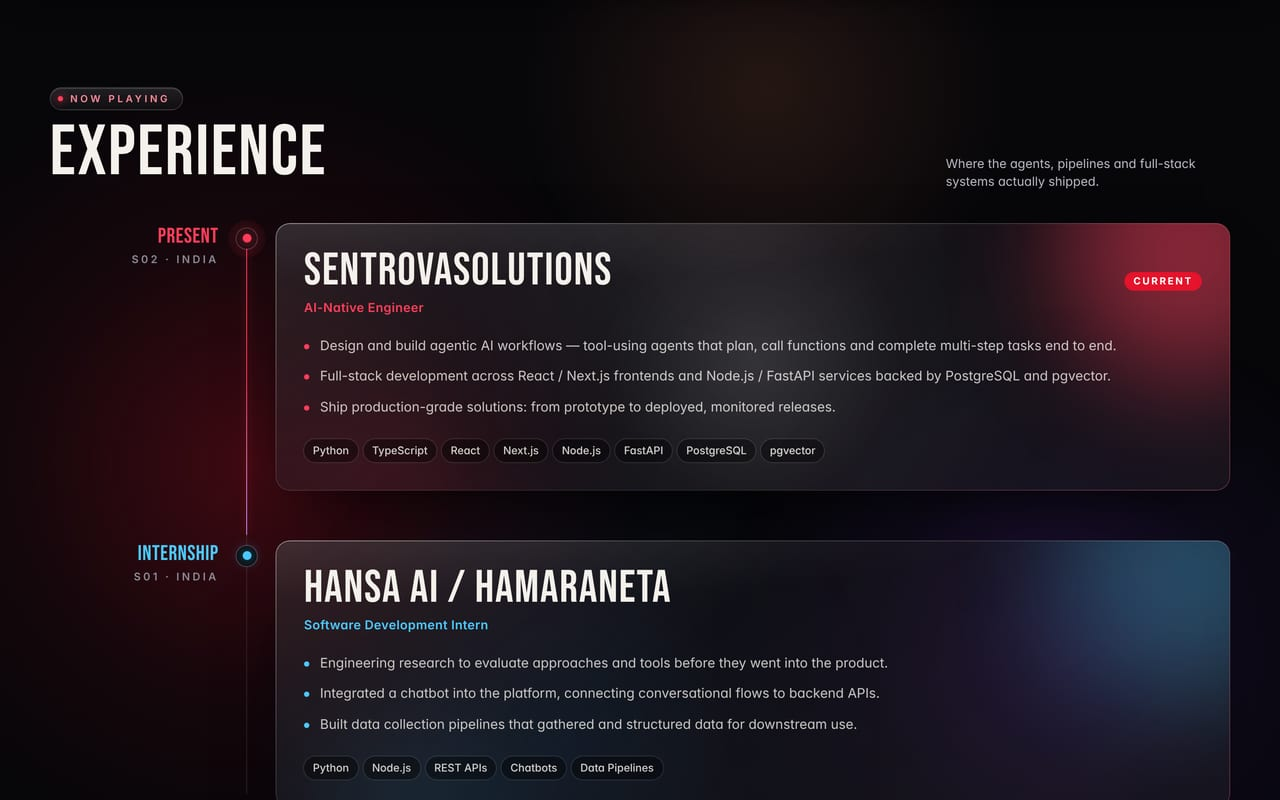
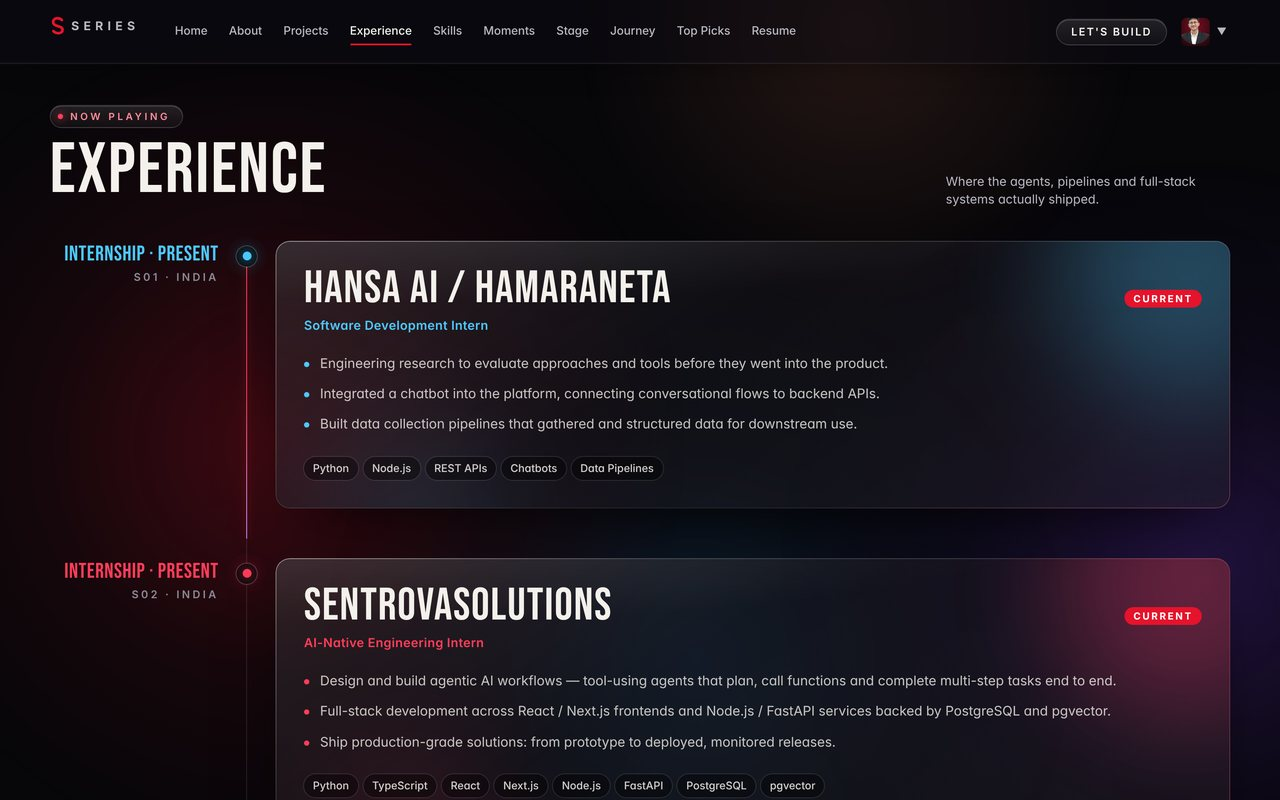
Show both internships as current: Hansa AI first, then SentrovaSolutions
Experience, About, My Journey, Top Picks, the intro reel and the resume PDF
now list Hansa AI / Hamaraneta (Software Development Intern) and then
SentrovaSolutions (AI-Native Engineering Intern), both ongoing. Every
ongoing role gets the CURRENT tag. The resume also adds India Innovates,
Delhi Next (Trinetra) and Chakravyuh to its achievements.

diff --git a/src/data/portfolio.ts b/src/data/portfolio.ts
@@ -28,7 +28,7 @@ export const profile = {
     'A Computer Science engineer (B.Tech) who builds AI systems that act — autonomous agents with function calling — and the full-stack products around them, with Python, TypeScript, React, Node.js, FastAPI and PostgreSQL + pgvector.',
   about: [
     'I come from a Computer Science background — my B.Tech is where I fell for two things at once: AI systems and full-stack development.',
-    'Today I work as an AI-Native Engineer, designing agentic workflows where models plan, call tools and get real work done, and wrapping them in production-grade web apps.',
+    'Right now I intern at two places — Hansa AI / Hamaraneta and SentrovaSolutions — designing agentic workflows where models plan, call tools and get real work done, and wrapping them in production-grade web apps.',
     'I like short loops: sketch the idea, ship the first version fast, then harden it for production.',
   ],
   highlights: [
@@ -83,24 +83,12 @@ const violet: Palette = { from: '#120822', via: '#3d1a6e', to: '#07060c', accent
 const jade: Palette = { from: '#03150f', via: '#0d5a40', to: '#050a08', accent: '#46e3a8' };
 
 export const experience: Experience[] = [
-  {
-    company: 'SentrovaSolutions',
-    role: 'AI-Native Engineer',
-    place: 'India',
-    period: 'Present', // TODO: e.g. "Jan 2026 – Present"
-    stack: ['Python', 'TypeScript', 'React', 'Next.js', 'Node.js', 'FastAPI', 'PostgreSQL', 'pgvector'],
-    points: [
-      'Design and build agentic AI workflows — tool-using agents that plan, call functions and complete multi-step tasks end to end.',
-      'Full-stack development across React / Next.js frontends and Node.js / FastAPI services backed by PostgreSQL and pgvector.',
-      'Ship production-grade solutions: from prototype to deployed, monitored releases.',
-    ],
-    palette: crimson,
-  },
+  // in the order joined (oldest first). Both internships are ongoing — a period with "Present" shows as CURRENT.
   {
     company: 'Hansa AI / Hamaraneta',
     role: 'Software Development Intern',
     place: 'India',
-    period: 'Internship', // TODO: e.g. "May 2025 – Aug 2025"
+    period: 'Internship · Present', // TODO: add the start month, e.g. "Aug 2025 – Present"
     stack: ['Python', 'Node.js', 'REST APIs', 'Chatbots', 'Data Pipelines'],
     points: [
       'Engineering research to evaluate approaches and tools before they went into the product.',
@@ -108,6 +96,19 @@ export const experience: Experience[] = [
       'Built data collection pipelines that gathered and structured data for downstream use.',
     ],
     palette: ocean,
+  },
+  {
+    company: 'SentrovaSolutions',
+    role: 'AI-Native Engineering Intern',
+    place: 'India',
+    period: 'Internship · Present', // TODO: add the start month, e.g. "Jan 2026 – Present"
+    stack: ['Python', 'TypeScript', 'React', 'Next.js', 'Node.js', 'FastAPI', 'PostgreSQL', 'pgvector'],
+    points: [
+      'Design and build agentic AI workflows — tool-using agents that plan, call functions and complete multi-step tasks end to end.',
+      'Full-stack development across React / Next.js frontends and Node.js / FastAPI services backed by PostgreSQL and pgvector.',
+      'Ship production-grade solutions: from prototype to deployed, monitored releases.',
+    ],
+    palette: crimson,
   },
 ];
 
@@ -534,7 +535,7 @@ export const seasons: Season[] = [
         title: 'The Researcher',
         description: 'Engineering research to pick the right approaches and tools.',
         tags: ['Research'],
-        runtime: 'Internship',
+        runtime: 'Now',
         palette: ocean,
       },
       {
@@ -542,7 +543,7 @@ export const seasons: Season[] = [
         title: 'The Integrator',
         description: 'Chatbot integration and data collection pipelines.',
         tags: ['Chatbot', 'Data Pipelines', 'APIs'],
-        runtime: 'Internship',
+        runtime: 'Now',
         palette: violet,
       },
     ],
@@ -551,7 +552,7 @@ export const seasons: Season[] = [
     number: 4,
     title: 'AI-Native',
     period: 'SentrovaSolutions',
-    synopsis: 'AI-Native Engineer — agentic workflows and production-grade full-stack systems.',
+    synopsis: 'AI-Native Engineering Intern — agentic workflows and production-grade full-stack systems.',
     episodes: [
       {
         code: 'S04 E01',
@@ -594,12 +595,12 @@ export type TopPick = { label: string; title: string; detail: string; palette: P
 export const topPicks: TopPick[] = [
   { label: 'Core focus', title: 'Agentic AI', detail: 'Autonomous agents with function calling', palette: crimson },
   { label: 'Biggest win', title: 'DRDO Hackathon', detail: 'Winner — DRDO co-partnered hackathon', palette: amber },
-  { label: 'Current role', title: 'Sentrova', detail: 'AI-Native Engineer', palette: ocean },
+  { label: 'Now interning', title: 'Hansa AI', detail: 'Software Development Intern', palette: ocean },
   { label: 'Primary language', title: 'Python', detail: 'with TypeScript for the web', palette: violet },
   { label: 'Vector stack', title: 'pgvector', detail: 'Semantic search inside PostgreSQL', palette: jade },
   { label: 'Backend pick', title: 'FastAPI', detail: 'plus Node.js & Express', palette: amber },
   { label: 'Frontend pick', title: 'Next.js', detail: 'React • Tailwind CSS', palette: crimson },
-  { label: 'The intern arc', title: 'Hansa AI', detail: 'Chatbots & data pipelines', palette: ocean },
+  { label: 'Also interning', title: 'Sentrova', detail: 'AI-Native Engineering Intern', palette: ocean },
   { label: 'Biggest stage', title: 'Bharat Mandapam', detail: 'India Innovates 2026 national finals', palette: violet },
   { label: 'Now open to', title: 'New Roles', detail: 'Engineering • Research • Freelance', palette: jade },
 ];
@@ -615,13 +616,13 @@ export const introSlides: IntroSlide[] = [
   },
   {
     kicker: 'Now',
-    title: 'SentrovaSolutions',
-    lines: ['AI-Native Engineer', 'Agentic AI workflows · full-stack · production-grade shipping'],
-  },
-  {
-    kicker: 'Before',
     title: 'Hansa AI / Hamaraneta',
     lines: ['Software Development Intern', 'Engineering research · chatbot integration · data pipelines'],
+  },
+  {
+    kicker: 'Also now',
+    title: 'SentrovaSolutions',
+    lines: ['AI-Native Engineering Intern', 'Agentic AI workflows · full-stack · production-grade shipping'],
   },
   {
     kicker: 'Originals',

diff --git a/src/components/Experience.tsx b/src/components/Experience.tsx
@@ -38,7 +38,7 @@ export default function Experience() {
                 transition={{ duration: 0.5, ease: EASE, delay: 0.1 }}
               >
                 <span className="h-2.5 w-2.5 rounded-full" style={{ background: x.palette.accent, boxShadow: `0 0 16px ${x.palette.accent}` }} />
-                {i === 0 && <span className="absolute inset-0 animate-ping rounded-full opacity-40" style={{ background: x.palette.accent }} />}
+                {/present/i.test(x.period) && <span className="absolute inset-0 animate-ping rounded-full opacity-40" style={{ background: x.palette.accent }} />}
               </motion.span>
 
               {/* period column */}
@@ -52,7 +52,7 @@ export default function Experience() {
                 <p className="font-display text-2xl leading-none tracking-wide" style={{ color: x.palette.accent }}>
                   {x.period}
                 </p>
-                <p className="mt-1 text-[12px] font-semibold uppercase tracking-[0.24em] text-smoke">{`S0${experience.length - i} · ${x.place}`}</p>
+                <p className="mt-1 text-[12px] font-semibold uppercase tracking-[0.24em] text-smoke">{`S0${i + 1} · ${x.place}`}</p>
               </motion.div>
 
               {/* card */}
@@ -69,7 +69,7 @@ export default function Experience() {
                     <div className="relative p-6 sm:p-8">
                       <div className="flex flex-wrap items-baseline justify-between gap-x-4 gap-y-1">
                         <h3 className="font-display text-[clamp(2rem,4vw,3.2rem)] leading-[0.9] tracking-wide text-bone">{x.company}</h3>
-                        {i === 0 && (
+                        {/present/i.test(x.period) && (
                           <span className="rounded-full bg-crimson px-2.5 py-0.5 text-[11px] font-bold tracking-[0.18em] text-white">CURRENT</span>
                         )}
                       </div>
